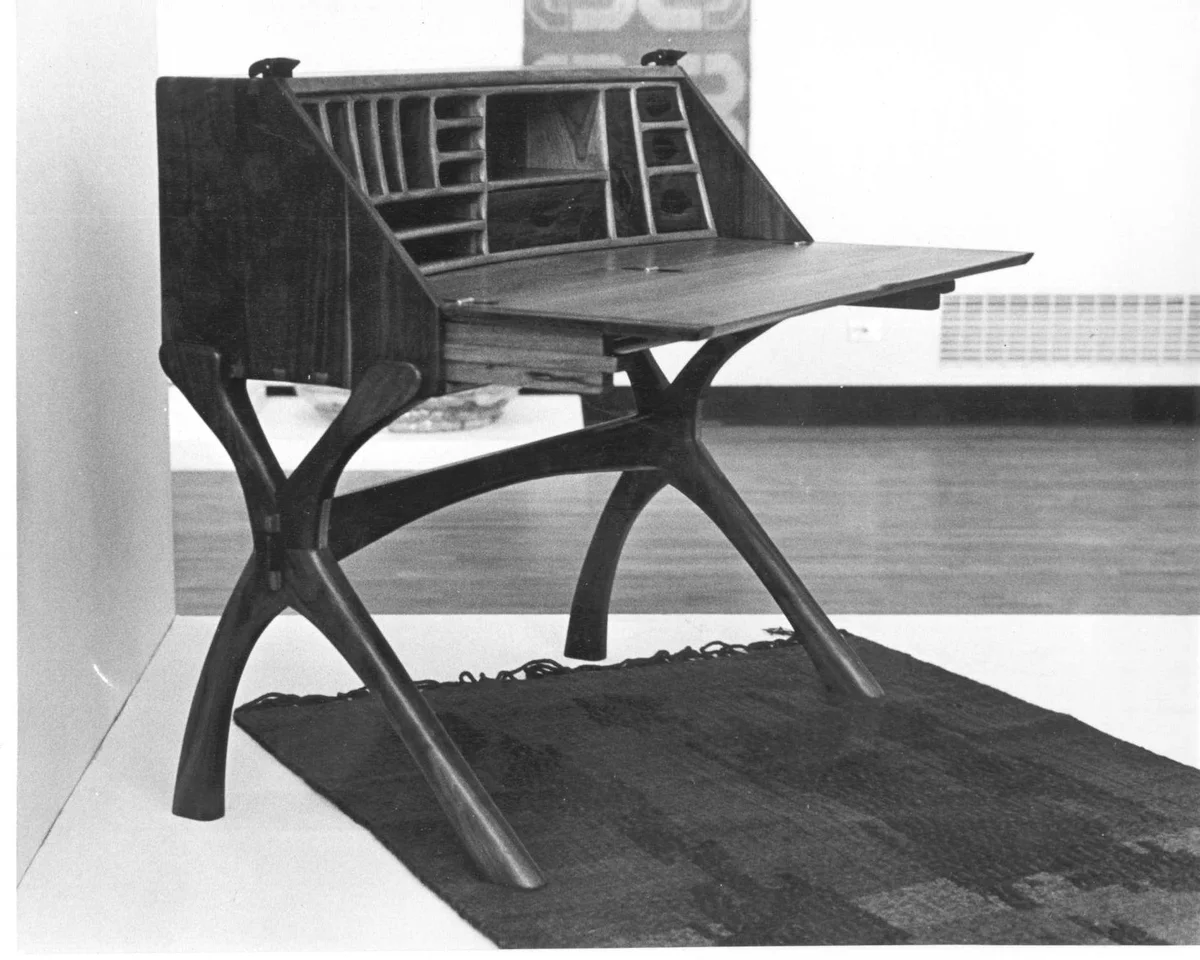
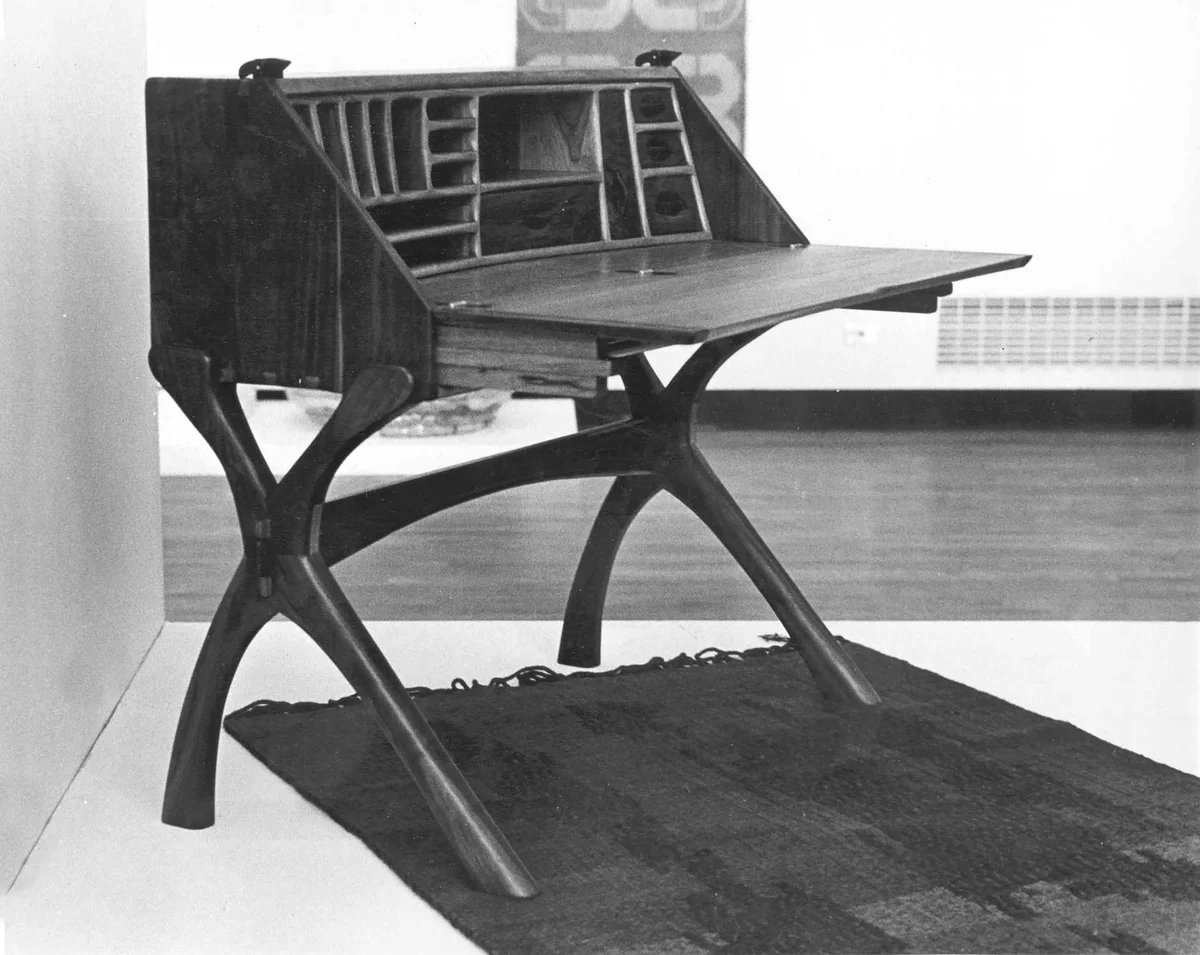
Fix marquee mobile spacing and update gallery assets/content (about, cabinets, furniture)

diff --git a/js/marquee.js b/js/marquee.js
@@ -9,6 +9,7 @@ class MarqueeKit {
             imageWidth: 250,
             imageFit: 'cover',
             gap: 20,
+            lazyLoad: false,
             pauseOnHover: false,
             reverse: false,
             imageScale: 1,
@@ -84,7 +85,9 @@ class MarqueeKit {
             if (entry.className) {
                 img.classList.add(...entry.className.split(' ').filter(Boolean));
             }
-            img.loading = 'lazy';
+            // Keep widths stable on mobile Safari by eagerly loading marquee images.
+            img.loading = this.options.lazyLoad ? 'lazy' : 'eager';
+            img.decoding = 'async';
 
             if (this.options.imageWidth === 'auto') {
                 img.style.width = 'auto';
@@ -124,10 +127,10 @@ class MarqueeKit {
     }
 
     waitForImages() {
-        const images = Array.from(this.container.querySelectorAll('img'));
-        const maxToAwait = Math.min(8, images.length);
-        const awaited = images.slice(0, maxToAwait);
-        const promises = awaited.map(img => new Promise(resolve => {
+        const images = this.items
+            .map(item => item.querySelector('img'))
+            .filter(Boolean);
+        const promises = images.map(img => new Promise(resolve => {
             if (img.complete) {
                 resolve();
             } else {

diff --git a/cabinets.html b/cabinets.html
@@ -102,6 +102,14 @@
                         <div class="loading-spinner"></div>
                         <img loading="eager" class="gallery-item" src="/images/cabinetry/menlo-park/michael-bock-pantry.webp" alt="Pantry">
                     </div>
+                    <div class="gallery-item-wrapper">
+                        <div class="loading-spinner"></div>
+                        <img loading="eager" class="gallery-item" src="/images/cabinetry/menlo-park/michael-bock-menlo-park-library-ladder.webp" alt="Menlo Park Library Ladder">
+                    </div>
+                    <div class="gallery-item-wrapper">
+                        <div class="loading-spinner"></div>
+                        <img loading="eager" class="gallery-item" src="/images/cabinetry/menlo-park/michael-bock-menlo-park-library-full.webp" alt="Menlo Park Library Full Wall">
+                    </div>
                 </div>
     
                 <a href="#" class="gallery-nav prev"><i class="fas fa-chevron-left"></i></a>

diff --git a/furniture.html b/furniture.html
@@ -473,6 +473,10 @@
                     <div class="loading-spinner"></div>
                     <img loading="eager" class="gallery-item" src="/images/fine-furniture/details/michael-bock-table-detail.webp" alt="Table Detail">
                 </div>
+                <div class="gallery-item-wrapper">
+                    <div class="loading-spinner"></div>
+                    <img loading="eager" class="gallery-item" src="/images/fine-furniture/details/michael-bock-curved-table-detail.webp" alt="Curved Table Detail">
+                </div>
             </div>
 
             <a href="#" class="gallery-nav prev"><i class="fas fa-chevron-left"></i></a>